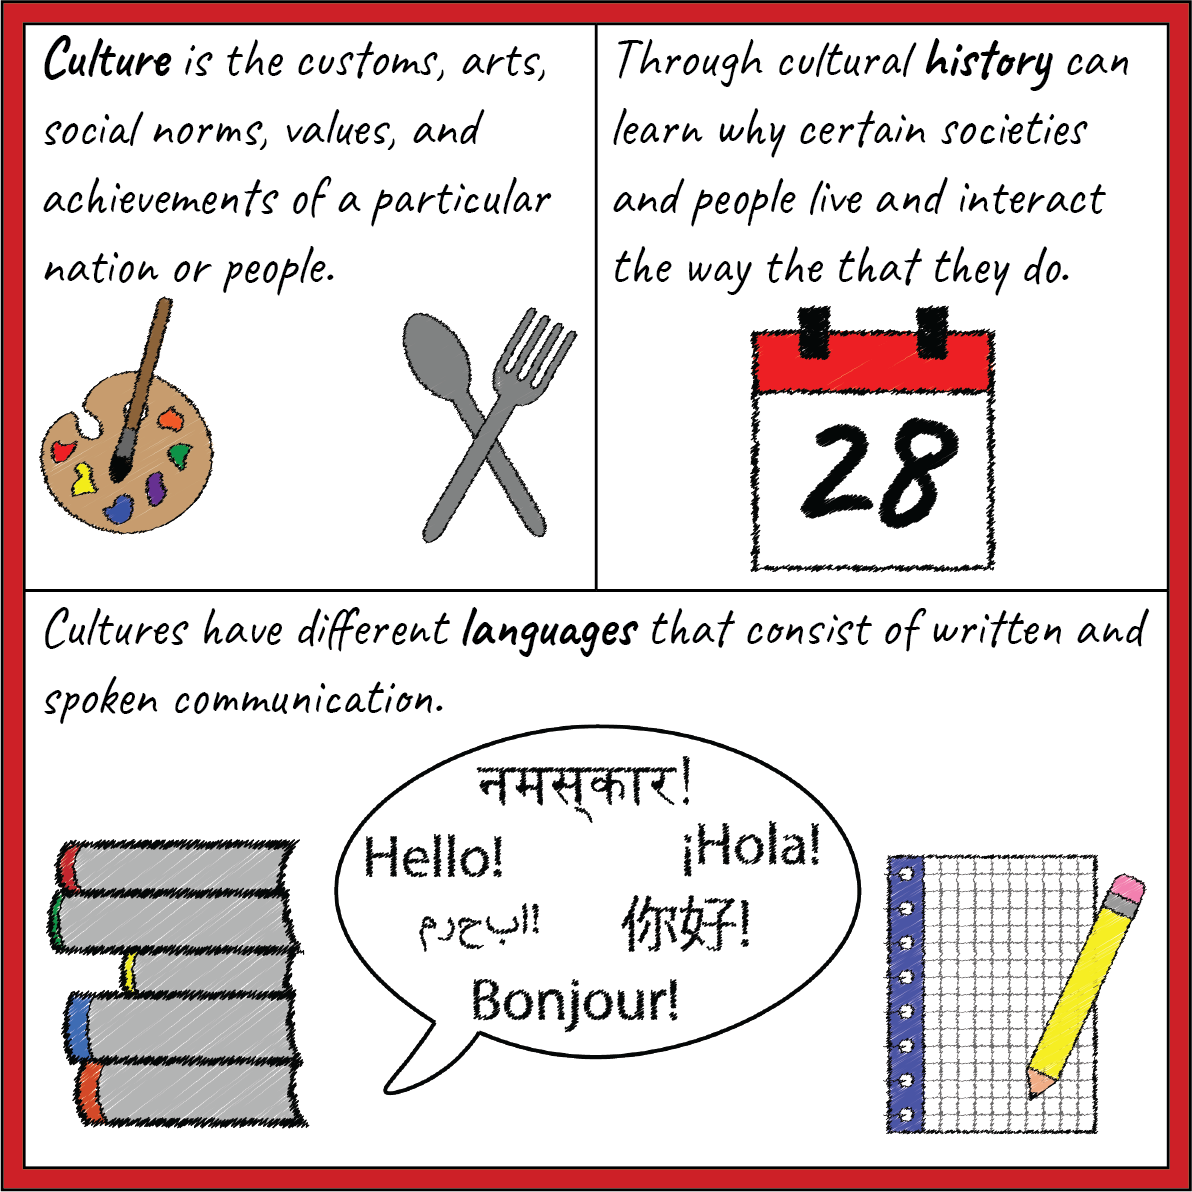
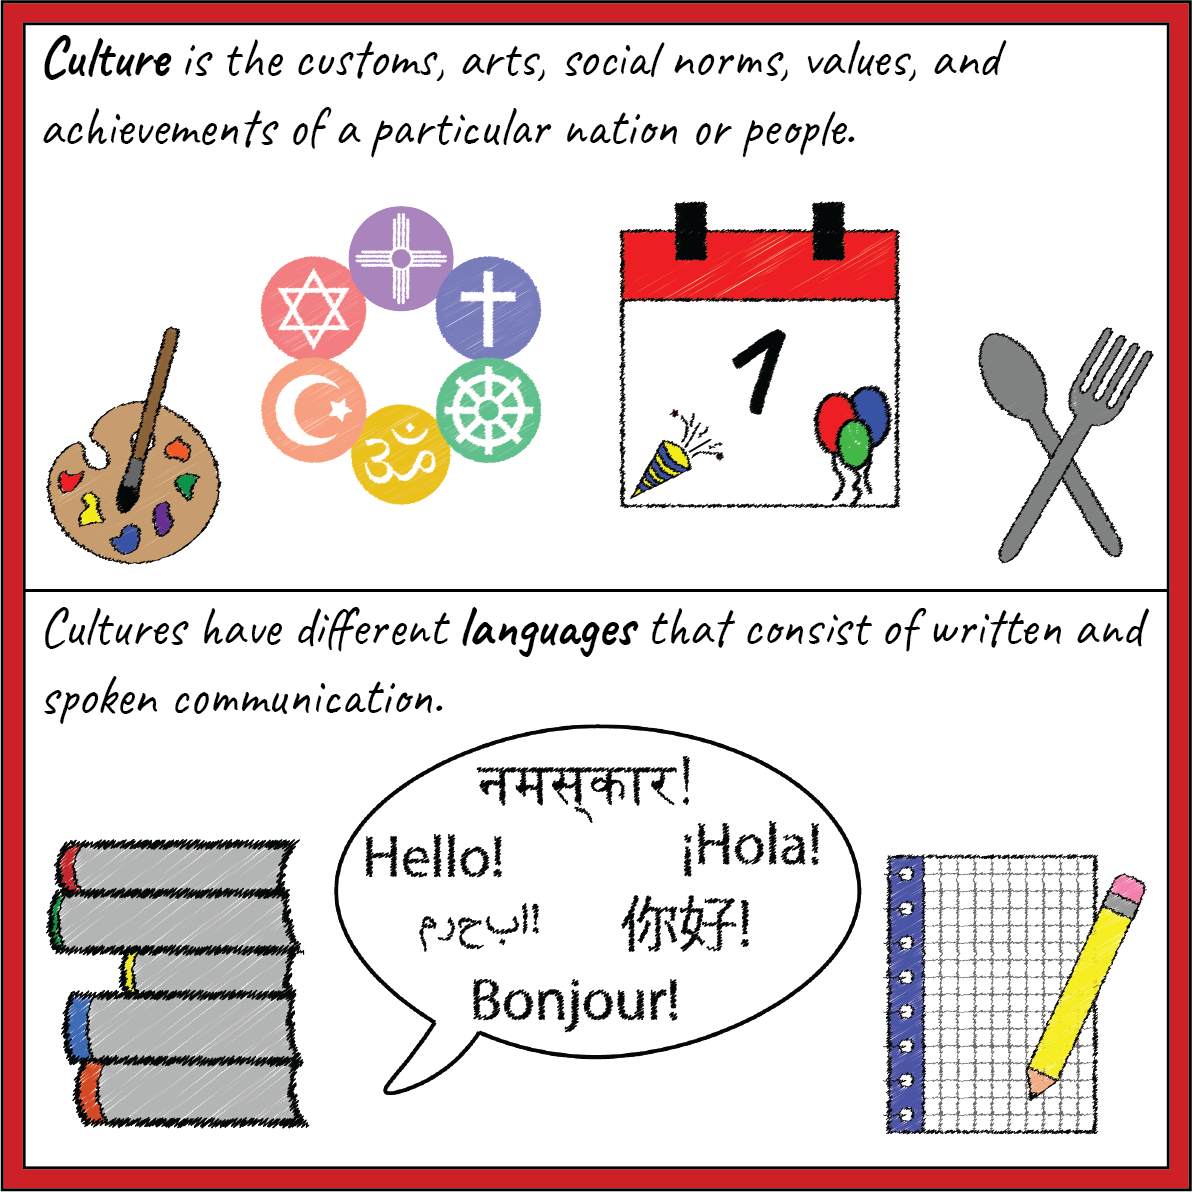
Cleaning Code

Changed region(s): [[0.031, 0.031, 0.9622, 0.4966]]

diff --git a/site/anticipate.html b/site/anticipate.html
@@ -10,25 +10,9 @@
 </head>
 
 <body class="p-3" style='background-image: url("../backgrounds/homepage1.jpg"); background-size: 100%;'>
-    <!-- Navigation Bar -->
-  <div class="row">
-    <nav class="navbar navbar-expand-lg fixed-top">
-      <header>
-          <ul class="navbar-nav">
-              <li class="nav-item">
-                <a  class="nav-link" href="https://kiyahw1.github.io/layers.github.io/">Home</a>
-              </li>
-              <li class="nav-item">
-                <a class="nav-link" href="#">About</a>
-              </li>
-          </ul>
-      </header>
-    </nav>
-  </div>
-
     <!--Main Title-->
   <div class= "container-fluid">
-    <div class="row justify-content-left mt-5">
+    <div class="row justify-content-left mt-1">
         <h2 id="Title">Part 1: Anticipate</h2>
     </div>
 
@@ -42,7 +26,9 @@
     </div>
 
     <!--Participant Response Form-->
-    <script src= "anticipate.js"></script>
+    <script src= "cookies.js">
+      const anticipate = new Cookie('Anticipate','AnticipateResponse')
+    </script>
     <form id="form">  
       <div class="form-group">
         <label for="AnticipateParticipantResponse">Type your response here</label>
@@ -54,7 +40,7 @@
 
     <!--Next Button-->
     <div class="row justify-content-end">
-        <button type="button" class="btn" onclick="window.location.href='subject.html'; writeCookie();">
+        <button type="button" class="btn" onclick="window.location.href='subject.html'; anticipate.write();">
             <img class="arrow" src="../assets/Arrow.png">
         </button>
     </div>

diff --git a/scripts/cookies.js b/scripts/cookies.js
@@ -1,0 +1,28 @@
+class Cookie {
+    constructor(name,id) {
+        this.name=name;
+        this.id=id;
+    }
+
+    pull = (source) => {
+        var name = this.name + "=";
+        var decodedCookie = decodeURIComponent(document.cookie);
+        var ca = decodedCookie.split(';');
+        for(var i = 0; i <ca.length; i++) {
+        var c = ca[i];
+        while (c.charAt(0) === ' ') {
+            c = c.substring(1);
+        }
+        if (c.indexOf(name) === 0) {
+            document.getElementById(this.id).src=source + c.substring(name.length, c.length);
+        }
+        }
+        return "";
+        }
+    
+    write = () => {
+        response=document.getElementById(this.id).value;
+        cookievalue = response + ";";
+        document.cookie = this.name + cookievalue +"; path/";
+        }
+}

diff --git a/site/randomSubject.js b/site/randomSubject.js
@@ -4,7 +4,8 @@ function drawSubject(){
     'figurativeLanguage_Front.png', 
     'biology_Front.png', 
     'Math_Front.png', 
-    'computerScience_Front.png')
+    'computerScience_Front.png',
+    'GlobalCultures_Front.png')
     
     randomCard=subjectArray[Math.floor(Math.random()*subjectArray.length)];
 
